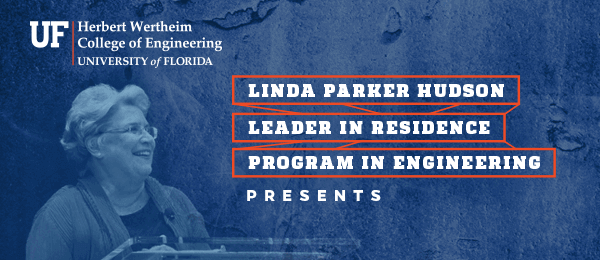
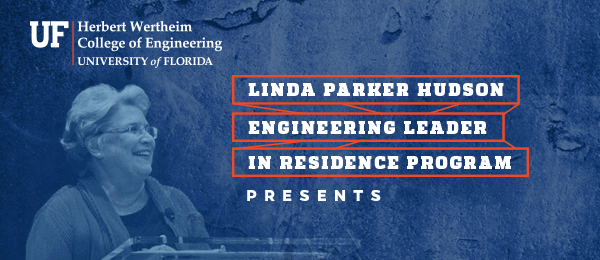
Thomas leader in residence events invites - final versions

Changed region(s): [[0.39, 0.2769, 0.93, 0.7077]]

diff --git a/lectureseries/leaderinresidence/thomas-keynote-inlined.html b/lectureseries/leaderinresidence/thomas-keynote-inlined.html
@@ -298,7 +298,7 @@
 
 <body bgcolor="#eeeeee" style="margin:0; padding:0;">
 	<div class="visually-hidden" style="color: #eeeeee;font-size: 1px;line-height: 1px;max-height: 0px;max-width: 0px;opacity: 0;">
-		Brought to you by the Linda Parker Hudson Leader in Residence Program in Engineering
+		Brought to you by the Linda Parker Hudson Engineering Leader in Residence Program
 	</div>			
 	<table border="0" width="100%" cellpadding="0" cellspacing="0">
 		<tr>
@@ -306,7 +306,7 @@
 				<table border="0" align="center" cellpadding="0" cellspacing="0" class="container-table" style="font-family: Arial, Helvetica, sans-serif;font-size: 16px;width: 600px;border-collapse: collapse;">
 					<tr>
 						<td class="img" bgcolor="#ffffff" style="padding-top: 0;padding-left: 0;padding-bottom: 0;padding-right: 0;font-family: 'gentona', Helvetica, Arial, sans-serif;font-weight: 300;font-size: 12px;">
-							<a href="https://www.eng.ufl.edu/leadership/curriculum/linda-parker-hudson-leader-in-residence-program/" target="_blank"><img src="https://www.eng.ufl.edu/eblasts/lectureseries/leaderinresidence/images/hudson-leaderinresidence-header-2018.png" align="left" alt="The Linda Parker Hudson Leader in Residence Program in Engineering Lecture Series" width="600" height="260" border="0" class="header-image" style="height: auto;display: block;margin: 0;padding: 0;border: 0;max-width: 600px;vertical-align: bottom;outline: none;text-decoration: none;image-rendering: crisp-edges;"></a>
+							<a href="https://www.eng.ufl.edu/leadership/curriculum/linda-parker-hudson-leader-in-residence-program/" target="_blank"><img src="https://www.eng.ufl.edu/eblasts/lectureseries/leaderinresidence/images/hudson-leaderinresidence-header-2018.png" align="left" alt="The Linda Parker Hudson Engineering Leader in Residence Program Lecture Series" width="600" height="260" border="0" class="header-image" style="height: auto;display: block;margin: 0;padding: 0;border: 0;max-width: 600px;vertical-align: bottom;outline: none;text-decoration: none;image-rendering: crisp-edges;"></a>
 						</td>
 					</tr>
 					<tr>
@@ -324,7 +324,7 @@
 								</tr>
 								<tr>
 									<td class="body" valign="top" align="center" style="padding-top: 0;padding-left: 0;padding-bottom: 0;padding-right: 0;font-family: 'gentona', Helvetica, Arial, sans-serif;padding: 9px 0px;font-size: 14px;line-height: 18px;color: #404040;">
-										Come hear from Mr. David Thomas about how leadership and innovation are intricately linked and present key challenges to sustaining corporate competitive advantage in today’s business world&mdash;brought to you by the Linda Parker Hudson Leader In Residence program at the Herbert Wertheim College of Engineering.
+										Come hear from Mr. David Thomas about how leadership and innovation are intricately linked and present key challenges to sustaining corporate competitive advantage in today’s business world&mdash;brought to you by the Linda Parker Hudson Engineering Leader In Residence program at the Herbert Wertheim College of Engineering.
 									</td>
 								</tr>
 								<tr>
@@ -381,12 +381,12 @@
 								</tr>
 								<tr>
 									<td class="h3" align="center" style="padding-top: 0;padding-left: 0;padding-bottom: 0;padding-right: 0;font-family: 'quadon', Georgia, serif;font-weight: bold;letter-spacing: 2px;font-size: 22px;line-height: 28px;color: #00529b;padding: 0.5em 0 0;">
-										About the Linda Parker Hudson Leader In Residence Program
+										About the Linda Parker Hudson Engineering Leader In Residence Program
 									</td>
 								</tr>
 								<tr>
 									<td class="body" style="padding-top: 0;padding-left: 0;padding-bottom: 0;padding-right: 0;font-family: 'gentona', Helvetica, Arial, sans-serif;padding: 9px 0px;font-size: 14px;line-height: 18px;color: #404040;">
-										The Linda Parker Hudson Leader in Residence Program in Engineering brings prominent leaders from technology, academia, public policy and research to the UF campus. The program is part of the UF Engineering Leadership Institute.
+										The Linda Parker Hudson Engineering Leader in Residence Program brings prominent leaders from technology, academia, public policy and research to the UF campus. The program is part of the UF Engineering Leadership Institute.
 									</td>
 								</tr>
 								<tr>

diff --git a/lectureseries/leaderinresidence/thomas-luncheon-inlined.html b/lectureseries/leaderinresidence/thomas-luncheon-inlined.html
@@ -306,7 +306,7 @@
 				<table border="0" align="center" cellpadding="0" cellspacing="0" class="container-table" style="font-family: Arial, Helvetica, sans-serif;font-size: 16px;width: 600px;border-collapse: collapse;">
 					<tr>
 						<td class="img" bgcolor="#ffffff" style="padding-top: 0;padding-left: 0;padding-bottom: 0;padding-right: 0;font-family: 'gentona', Helvetica, Arial, sans-serif;font-weight: 300;font-size: 12px;">
-							<a href="https://www.eng.ufl.edu/leadership/curriculum/linda-parker-hudson-leader-in-residence-program/" target="_blank"><img src="https://www.eng.ufl.edu/eblasts/lectureseries/leaderinresidence/images/hudson-leaderinresidence-header-presents.png" align="left" alt="The Linda Parker Hudson Leader in Residence Program in Engineering Lecture Series" width="600" height="260" border="0" class="header-image" style="height: auto;display: block;margin: 0;padding: 0;border: 0;max-width: 600px;vertical-align: bottom;outline: none;text-decoration: none;image-rendering: crisp-edges;"></a>
+							<a href="https://www.eng.ufl.edu/leadership/curriculum/linda-parker-hudson-leader-in-residence-program/" target="_blank"><img src="https://www.eng.ufl.edu/eblasts/lectureseries/leaderinresidence/images/hudson-leaderinresidence-header-presents.png" align="left" alt="The Linda Parker Hudson Engineering Leader in Residence Program Lecture Series" width="600" height="260" border="0" class="header-image" style="height: auto;display: block;margin: 0;padding: 0;border: 0;max-width: 600px;vertical-align: bottom;outline: none;text-decoration: none;image-rendering: crisp-edges;"></a>
 						</td>
 					</tr>
 					<tr>
@@ -319,7 +319,7 @@
 								</tr>
 								<tr>
 									<td class="body" align="center" valign="top" style="padding-top: 0;padding-left: 0;padding-bottom: 0;padding-right: 0;font-family: 'gentona', Helvetica, Arial, sans-serif;padding: 9px 0px;font-size: 14px;line-height: 18px;color: #404040;">
-										Come meet and talk with Mr. David Thomas about learning to lead without authority, something that almost all young leaders entering modern day organizations will face – brought to you by the Linda Parker Hudson Leader In Residence program at the Herbert Wertheim College of Engineering. <em>Complimentary lunch provided.</em>
+										Come meet and talk with Mr. David Thomas about learning to lead without authority, something that almost all young leaders entering modern day organizations will face – brought to you by the Linda Parker Hudson Engineering Leader In Residence program at the Herbert Wertheim College of Engineering. <em>Complimentary lunch provided.</em>
 									</td>
 								</tr>
 								<tr>
@@ -376,12 +376,12 @@
 								</tr>
 								<tr>
 									<td class="h3" align="center" style="padding-top: 0;padding-left: 0;padding-bottom: 0;padding-right: 0;font-family: 'quadon', Georgia, serif;font-weight: bold;letter-spacing: 2px;font-size: 22px;line-height: 28px;color: #00529b;padding: 0.5em 0 0;">
-										About the Linda Parker Hudson Leader In Residence Program
+										About the Linda Parker Hudson Engineering Leader In Residence Program
 									</td>
 								</tr>
 								<tr>
 									<td class="body" style="padding-top: 0;padding-left: 0;padding-bottom: 0;padding-right: 0;font-family: 'gentona', Helvetica, Arial, sans-serif;padding: 9px 0px;font-size: 14px;line-height: 18px;color: #404040;">
-										The Linda Parker Hudson Leader in Residence Program in Engineering brings prominent leaders from technology, academia, public policy and research to the UF campus. The program is part of the UF Engineering Leadership Institute.
+										The Linda Parker Hudson Engineering Leader in Residence Program brings prominent leaders from technology, academia, public policy and research to the UF campus. The program is part of the UF Engineering Leadership Institute.
 									</td>
 								</tr>
 								<tr>

diff --git a/lectureseries/leaderinresidence/thomas-keynote.html b/lectureseries/leaderinresidence/thomas-keynote.html
@@ -298,7 +298,7 @@
 
 <body bgcolor="#eeeeee" style="margin:0; padding:0;">
 	<div class="visually-hidden" style="color:#eeeeee;">
-		Brought to you by the Linda Parker Hudson Leader in Residence Program in Engineering
+		Brought to you by the Linda Parker Hudson Engineering Leader in Residence Program
 	</div>			
 	<table border="0" width="100%" cellpadding="0" cellspacing="0">
 		<tr>
@@ -306,7 +306,7 @@
 				<table border="0" align="center" cellpadding="0" cellspacing="0" class="container-table" style="font-family:Arial, Helvetica, sans-serif; font-size:16px;">
 					<tr>
 						<td class="img" bgcolor="#ffffff">
-							<a href="https://www.eng.ufl.edu/leadership/curriculum/linda-parker-hudson-leader-in-residence-program/" target="_blank"><img src="https://www.eng.ufl.edu/eblasts/lectureseries/leaderinresidence/images/hudson-leaderinresidence-header-2018.png" align="left" alt="The Linda Parker Hudson Leader in Residence Program in Engineering Lecture Series" width="600" height="260" border="0" class="header-image" /></a>
+							<a href="https://www.eng.ufl.edu/leadership/curriculum/linda-parker-hudson-leader-in-residence-program/" target="_blank"><img src="https://www.eng.ufl.edu/eblasts/lectureseries/leaderinresidence/images/hudson-leaderinresidence-header-2018.png" align="left" alt="The Linda Parker Hudson Engineering Leader in Residence Program Lecture Series" width="600" height="260" border="0" class="header-image" /></a>
 						</td>
 					</tr>
 					<tr>
@@ -324,7 +324,7 @@
 								</tr>
 								<tr>
 									<td class="body" valign="top" align="center">
-										Come hear from Mr. David Thomas about how leadership and innovation are intricately linked and present key challenges to sustaining corporate competitive advantage in today’s business world&mdash;brought to you by the Linda Parker Hudson Leader In Residence program at the Herbert Wertheim College of Engineering.
+										Come hear from Mr. David Thomas about how leadership and innovation are intricately linked and present key challenges to sustaining corporate competitive advantage in today’s business world&mdash;brought to you by the Linda Parker Hudson Engineering Leader In Residence program at the Herbert Wertheim College of Engineering.
 									</td>
 								</tr>
 								<tr>
@@ -381,12 +381,12 @@
 								</tr>
 								<tr>
 									<td class="h3" align="center">
-										About the Linda Parker Hudson Leader In Residence Program
+										About the Linda Parker Hudson Engineering Leader In Residence Program
 									</td>
 								</tr>
 								<tr>
 									<td class="body">
-										The Linda Parker Hudson Leader in Residence Program in Engineering brings prominent leaders from technology, academia, public policy and research to the UF campus. The program is part of the UF Engineering Leadership Institute.
+										The Linda Parker Hudson Engineering Leader in Residence Program brings prominent leaders from technology, academia, public policy and research to the UF campus. The program is part of the UF Engineering Leadership Institute.
 									</td>
 								</tr>
 								<tr>

diff --git a/lectureseries/leaderinresidence/thomas-luncheon.html b/lectureseries/leaderinresidence/thomas-luncheon.html
@@ -306,7 +306,7 @@
 				<table border="0" align="center" cellpadding="0" cellspacing="0" class="container-table" style="font-family:Arial, Helvetica, sans-serif; font-size:16px;">
 					<tr>
 						<td class="img" bgcolor="#ffffff">
-							<a href="https://www.eng.ufl.edu/leadership/curriculum/linda-parker-hudson-leader-in-residence-program/" target="_blank"><img src="https://www.eng.ufl.edu/eblasts/lectureseries/leaderinresidence/images/hudson-leaderinresidence-header-presents.png" align="left" alt="The Linda Parker Hudson Leader in Residence Program in Engineering Lecture Series" width="600" height="260" border="0" class="header-image" /></a>
+							<a href="https://www.eng.ufl.edu/leadership/curriculum/linda-parker-hudson-leader-in-residence-program/" target="_blank"><img src="https://www.eng.ufl.edu/eblasts/lectureseries/leaderinresidence/images/hudson-leaderinresidence-header-presents.png" align="left" alt="The Linda Parker Hudson Engineering Leader in Residence Program Lecture Series" width="600" height="260" border="0" class="header-image" /></a>
 						</td>
 					</tr>
 					<tr>
@@ -319,7 +319,7 @@
 								</tr>
 								<tr>
 									<td class="body" align="center" valign="top">
-										Come meet and talk with Mr. David Thomas about learning to lead without authority, something that almost all young leaders entering modern day organizations will face – brought to you by the Linda Parker Hudson Leader In Residence program at the Herbert Wertheim College of Engineering. <em>Complimentary lunch provided.</em>
+										Come meet and talk with Mr. David Thomas about learning to lead without authority, something that almost all young leaders entering modern day organizations will face – brought to you by the Linda Parker Hudson Engineering Leader In Residence program at the Herbert Wertheim College of Engineering. <em>Complimentary lunch provided.</em>
 									</td>
 								</tr>
 								<tr>
@@ -376,12 +376,12 @@
 								</tr>
 								<tr>
 									<td class="h3" align="center">
-										About the Linda Parker Hudson Leader In Residence Program
+										About the Linda Parker Hudson Engineering Leader In Residence Program
 									</td>
 								</tr>
 								<tr>
 									<td class="body">
-										The Linda Parker Hudson Leader in Residence Program in Engineering brings prominent leaders from technology, academia, public policy and research to the UF campus. The program is part of the UF Engineering Leadership Institute.
+										The Linda Parker Hudson Engineering Leader in Residence Program brings prominent leaders from technology, academia, public policy and research to the UF campus. The program is part of the UF Engineering Leadership Institute.
 									</td>
 								</tr>
 								<tr>
